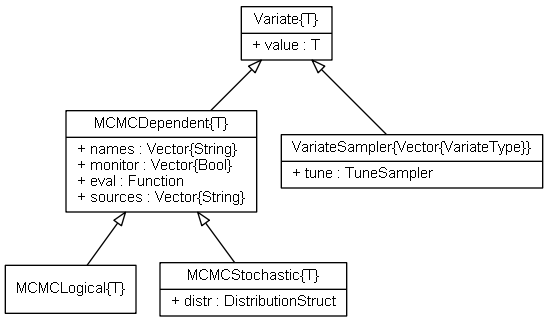
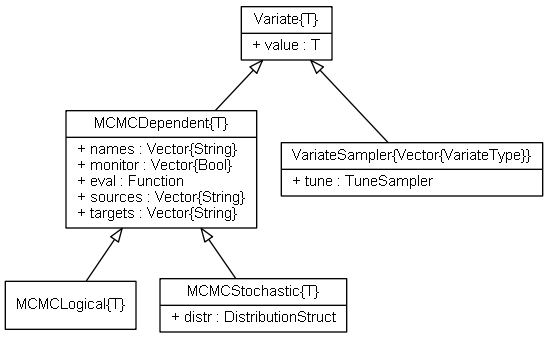
Added targets fields to MCMCDependent types.

diff --git a/doc/mcmc/dependent.rst b/doc/mcmc/dependent.rst
@@ -22,6 +22,7 @@ Fields
 * ``monitor::Vector{Bool}`` : element-specific boolean values indicating whether to include corresponding ``value`` field values in monitored MCMC sampler output.
 * ``eval::Function`` : a function for updating the state of the node.
 * ``sources::Vector{String}`` : names of other nodes upon whom the values of this one depends.
+* ``targets::Vector{String}`` : names of ``MCMCDependent`` nodes that depend on this one.  Elements of ``targets`` are topologically sorted so that a given node in the vector is conditionally independent of subsequent nodes, given the previous ones.
 
 Methods
 ^^^^^^^
@@ -115,6 +116,7 @@ Fields
 * ``monitor::Vector{Bool}`` : element-specific boolean values indicating whether to include corresponding ``value`` field values in monitored MCMC sampler output.
 * ``eval::Function`` : a function for updating values stored in ``value``.
 * ``sources::Vector{String}`` : names of other nodes upon whom the values of this one depends.
+* ``targets::Vector{String}`` : names of ``MCMCDependent`` nodes that depend on this one.  Elements of ``targets`` are topologically sorted so that a given node in the vector is conditionally independent of subsequent nodes, given the previous ones.
 
 Constructors
 ^^^^^^^^^^^^
@@ -195,6 +197,7 @@ Fields
 * ``monitor::Vector{Bool}`` : element-specific boolean values indicating whether to include corresponding ``value`` field values in monitored MCMC sampler output.
 * ``eval::Function`` : a function for updating the ``distr`` field for the node.
 * ``sources::Vector{String}`` : names of other nodes upon whom the distributional specification for this one depends.
+* ``targets::Vector{String}`` : names of ``MCMCDependent`` nodes that depend on this one.  Elements of ``targets`` are topologically sorted so that a given node in the vector is conditionally independent of subsequent nodes, given the previous ones.
 * ``distr::DistributionStruct`` : the distributional specification for the node.
 
 Aliases

diff --git a/doc/mcmc/model.rst b/doc/mcmc/model.rst
@@ -16,8 +16,8 @@ Fields
 ^^^^^^
 
 * ``nodes::Dict{String,Any}`` : a dictionary containing all input, logical, and stochastic model nodes.
-* ``targets::Vector{String}`` : names of all ``MCMCDependent`` nodes in topologically sorted order so that a given node in the vector is conditionally independent of subsequent nodes, given the previous ones.
 * ``samplers::Vector{MCMCSampler}`` : sampling functions for updating blocks of stochastic nodes.
+* ``targets::Vector{String}`` : names of all ``MCMCDependent`` nodes in topologically sorted order so that a given node in the vector is conditionally independent of subsequent nodes, given the previous ones.
 * ``iter::Integer`` : current MCMC draw from the target distribution.
 * ``burnin::Integer`` : number of initial draws to discard as a burn-in sequence to allow for convergence.
 * ``chain::Integer`` : current run of the MCMC simulator in a possible sequence of runs.

diff --git a/doc/mcmc/sampler.rst b/doc/mcmc/sampler.rst
@@ -22,9 +22,9 @@ Fields
 ^^^^^^
 
 * ``params::Vector{String}`` : names of the stochastic nodes in the block being updated by the sampler.
-* ``targets::Vector{String}`` : names of ``MCMCDependent`` nodes that depend on and whose states must be updated after the ``params``.  Elements of ``targets`` are topologically sorted so that a given node in the vector is conditionally independent of subsequent nodes, given the previous ones.
 * ``eval::Function`` : a sampling function that updates values of the ``params`` nodes.
 * ``tune::Dict`` : any tuning parameters needed by the sampling function.
+* ``targets::Vector{String}`` : names of ``MCMCDependent`` nodes that depend on and whose states must be updated after the ``params``.  Elements of ``targets`` are topologically sorted so that a given node in the vector is conditionally independent of subsequent nodes, given the previous ones.
 
 Constructor
 ^^^^^^^^^^^
